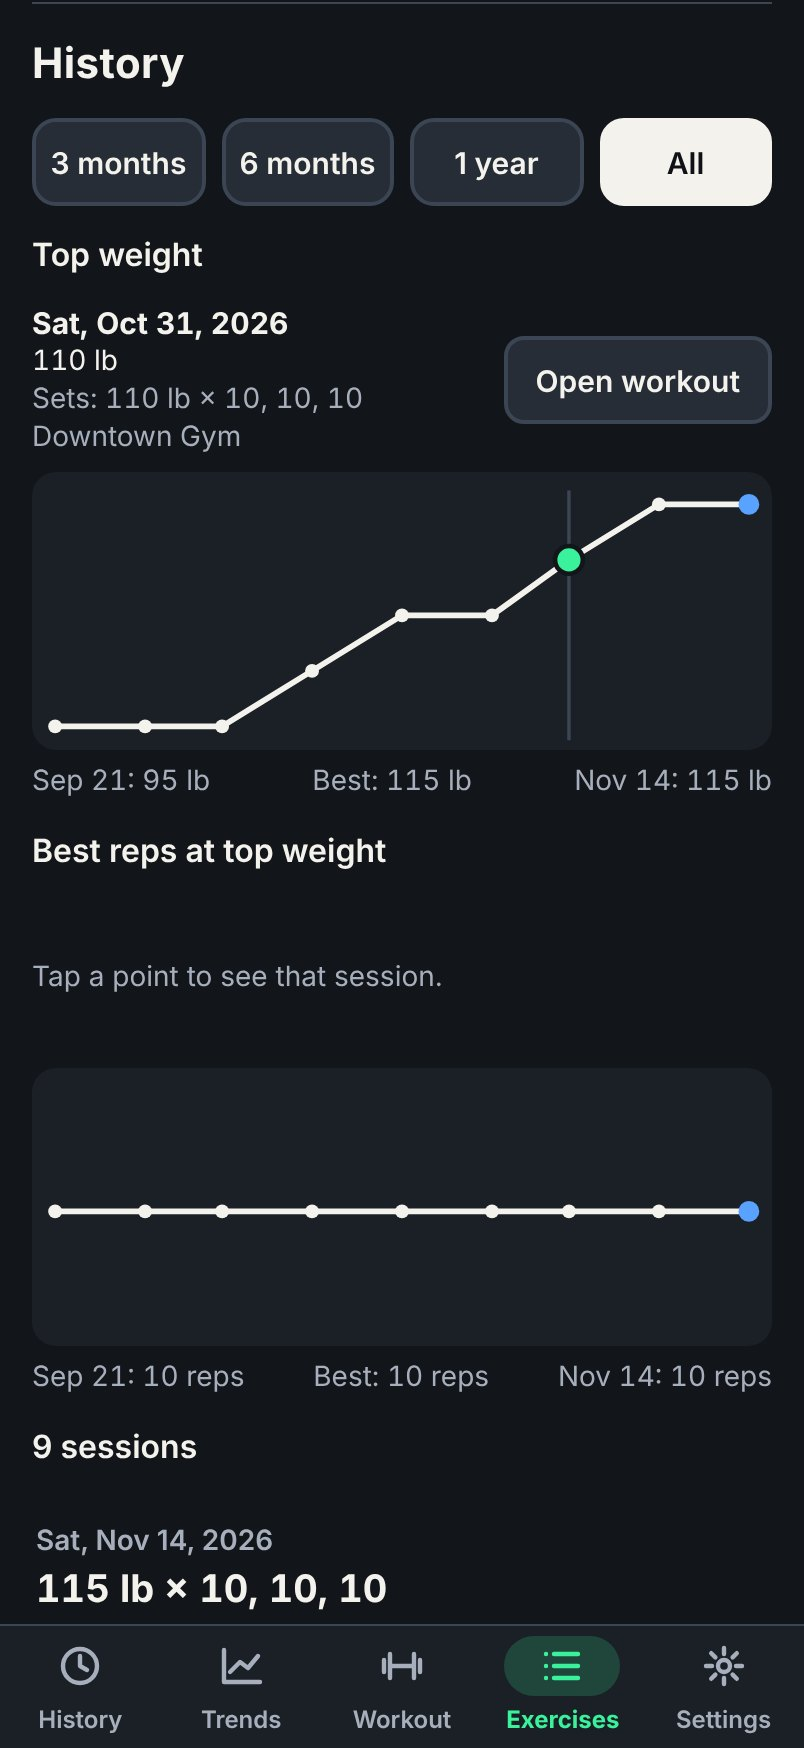
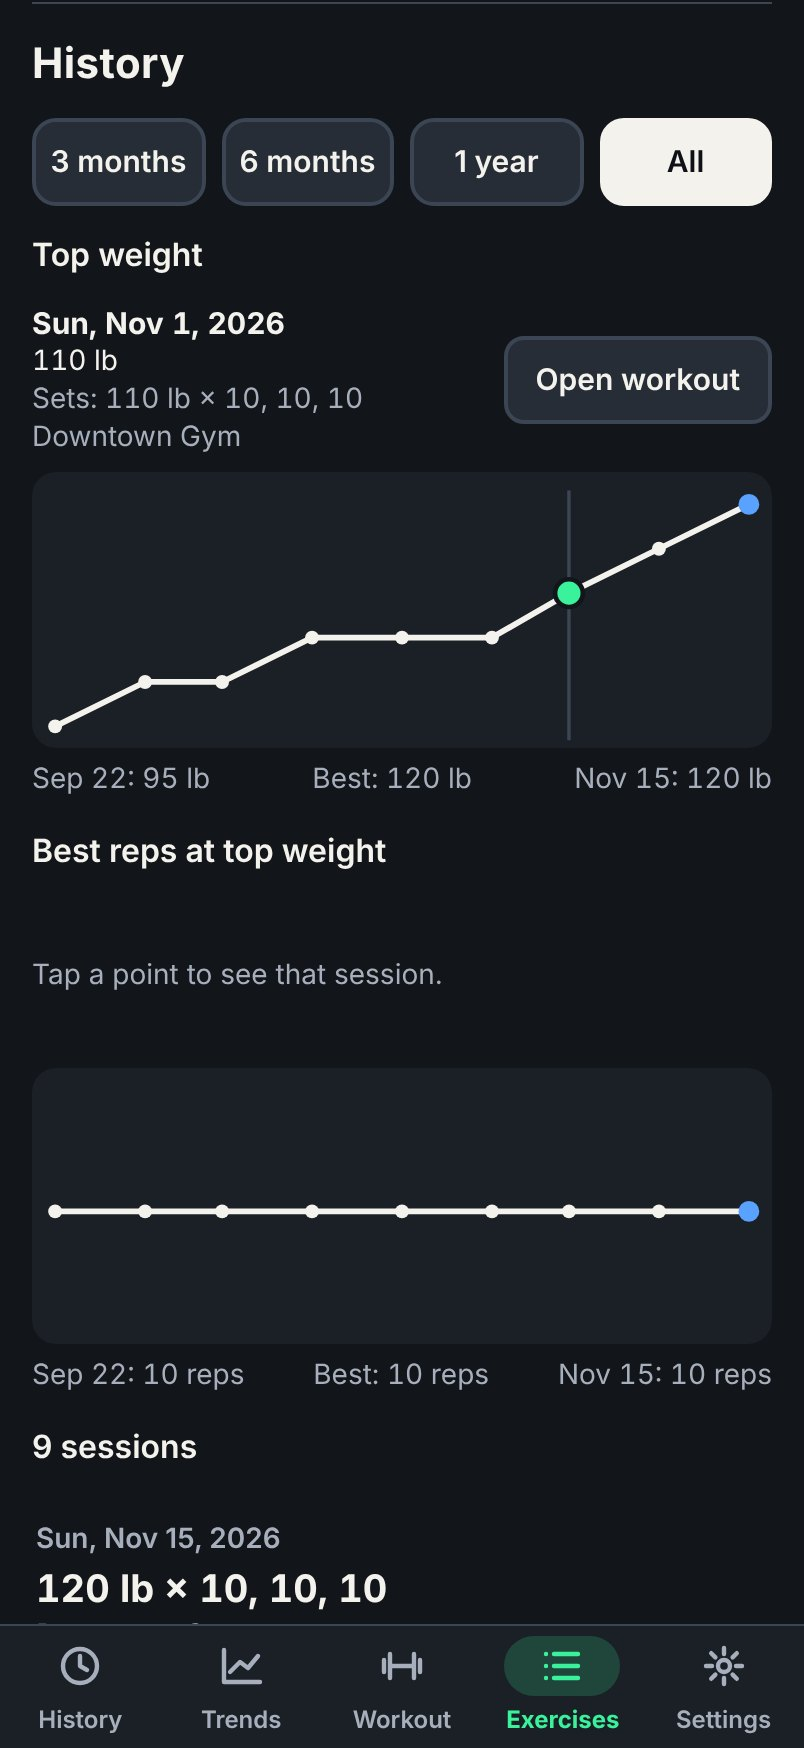
Refresh the README screenshots for the current app
Retaken with docs/screenshots/capture.mjs: the logo beside Today, muscle
illustrations, Remove on planned lifts, Pick muscle groups in the picker,
and the red Finish button. The sample data now includes a session from a
few hours ago, so Trends' current week is never empty. Alt text that
quoted exact numbers is now general.

Claude-Session: https://claude.ai/code/session_01AGct8uh1MFCYbGp2NNcrRX

diff --git a/README.md b/README.md
@@ -12,7 +12,7 @@ ThoeneFit is a self-hosted workout planner and log built for phones. Pick a gym 
 
 | Workout planner | Workout in progress | Exercise progress |
 | :---: | :---: | :---: |
-| <a href="docs/screenshots/workout-planner.jpg"><img src="docs/screenshots/workout-planner.jpg" width="250" alt="Today screen at Downtown Gym: a Push workout of 7 exercises, about 43 minutes, with Barbell Bench Press suggested at 120 lb after 115 lb × 10, 10, 10 last time"></a> | <a href="docs/screenshots/workout-in-progress.jpg"><img src="docs/screenshots/workout-in-progress.jpg" width="250" alt="Push workout in progress: two Barbell Bench Press sets done at 120 lb, the first Overhead Press set up next, and the rest timer counting down"></a> | <a href="docs/screenshots/exercise-progress.jpg"><img src="docs/screenshots/exercise-progress.jpg" width="250" alt="Barbell Bench Press history: top weight rising from 95 to 115 lb, with the Oct 31 session selected showing 110 lb × 10, 10, 10"></a> |
+| <a href="docs/screenshots/workout-planner.jpg"><img src="docs/screenshots/workout-planner.jpg" width="250" alt="Today screen at Downtown Gym: a Push plan with a suggested weight, the last result and a muscle illustration for each lift"></a> | <a href="docs/screenshots/workout-in-progress.jpg"><img src="docs/screenshots/workout-in-progress.jpg" width="250" alt="Push workout in progress: two Barbell Bench Press sets done, the next set up, and the rest timer counting down"></a> | <a href="docs/screenshots/exercise-progress.jpg"><img src="docs/screenshots/exercise-progress.jpg" width="250" alt="Barbell Bench Press history: the top weight rising over eight weeks, with one session selected showing its weight and reps"></a> |
 
 | Trends | Saved routines | Shared workout |
 | :---: | :---: | :---: |
